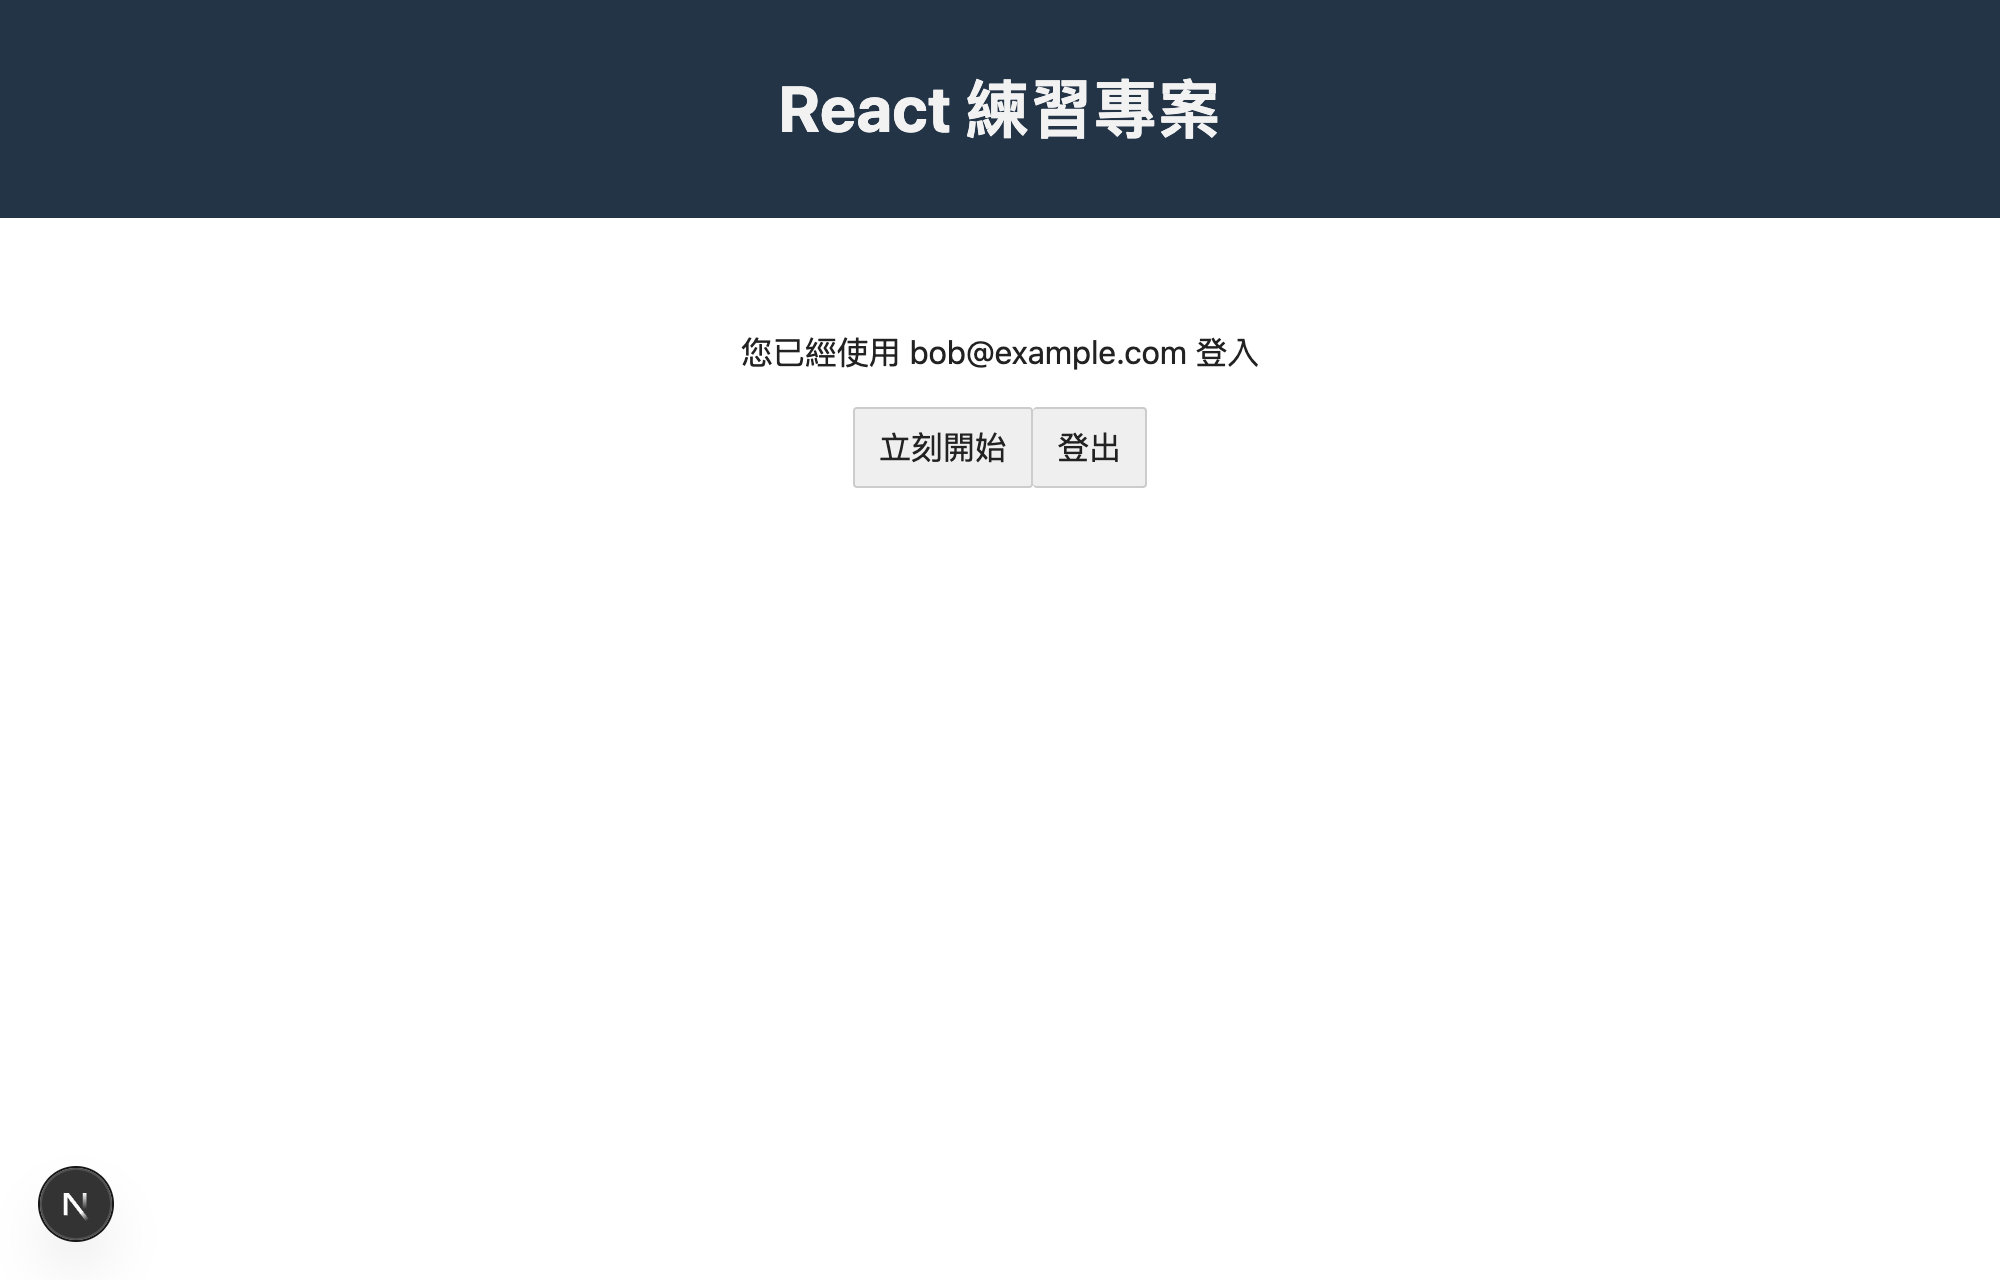
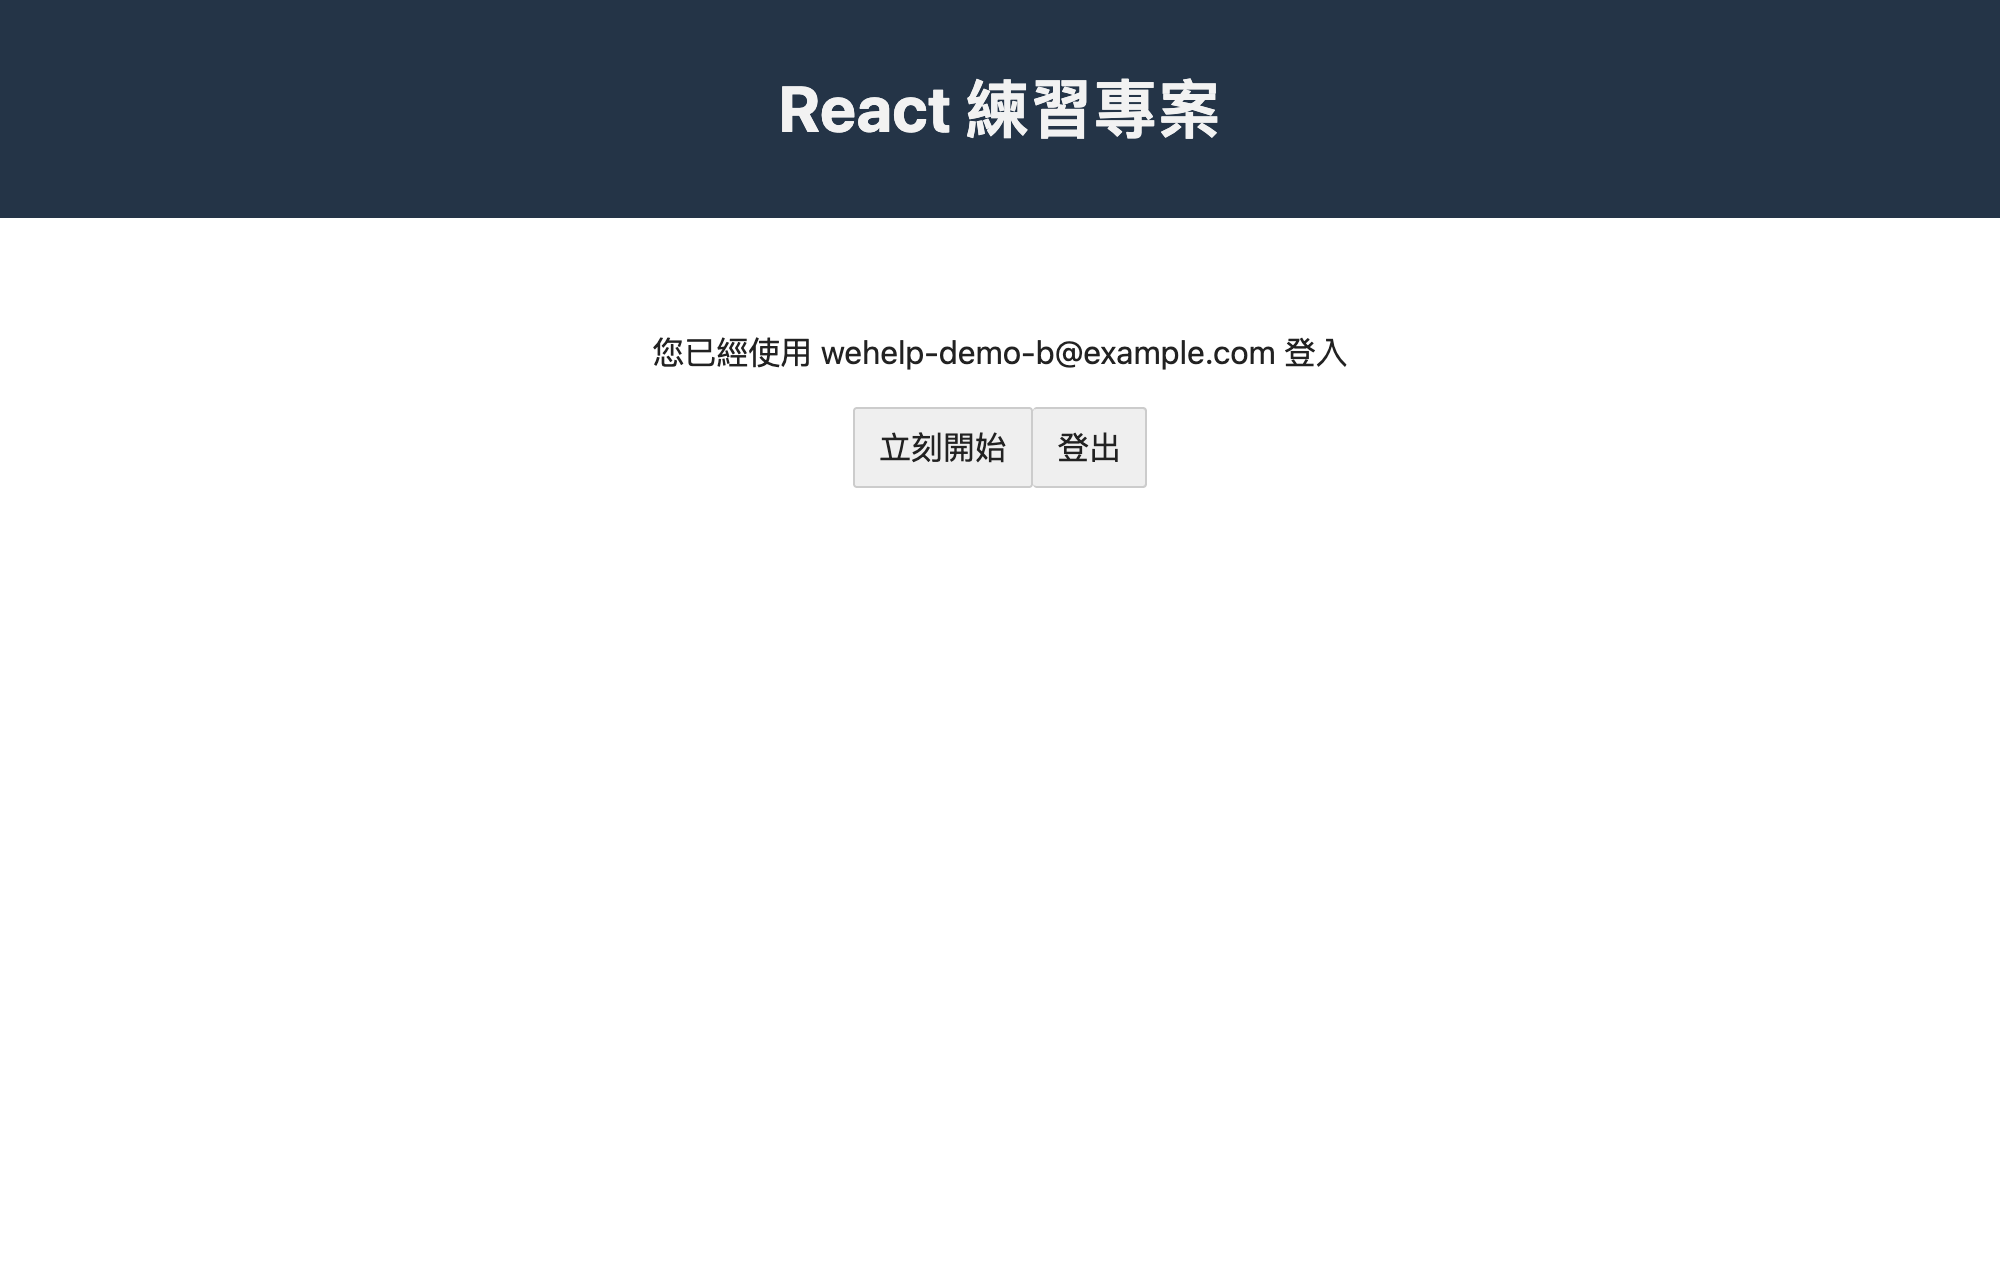
docs: 第二週教學改用正式環境截圖 (#4)
教學截圖改用線上正式環境，補充線上驗收結果。

Changed region(s): [[0.31, 0.25, 0.682, 0.3125], [0.0, 0.9062, 0.062, 0.9688]]

diff --git a/docs/TUTORIAL-WEEK2.md b/docs/TUTORIAL-WEEK2.md
@@ -1,7 +1,7 @@
 # 第二週教學：記帳小工具接上 Firebase（會員登入 + 雲端資料庫）
 
 > 接續 [第一週教學](./TUTORIAL.md)。照順序做，每一步都說明「做什麼、為什麼這樣做、做完應該看到什麼」。
-> 本文程式碼都實際跑過：ESLint、TypeScript、20 個單元測試、18 個安全規則測試、production build 全部通過；註冊、登入、新增、刪除、回訪、兩個帳號互相看不到資料，都在本機 Emulator 和線上實測過。
+> 本文程式碼都實際跑過：ESLint、TypeScript、20 個單元測試、18 個安全規則測試、production build 全部通過；R1–R7 在本機 Emulator 和線上正式環境都實測過，包含用另一個帳號的登入憑證直接呼叫 Firestore API，讀、刪、新增別人的資料都被拒絕（HTTP 403）。
 
 ---
 
